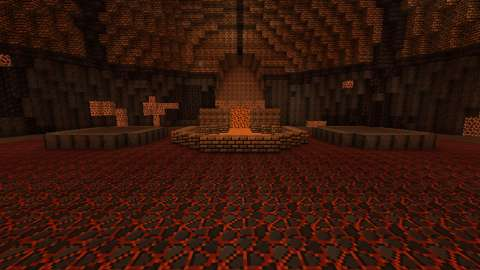
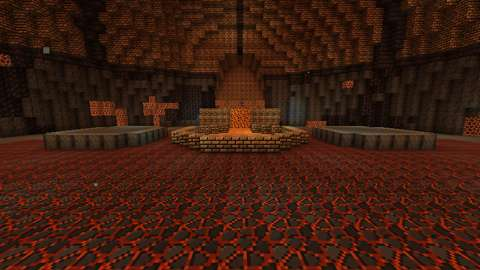
Record the brighter kiln's CI and pictures
CI passed on cd8169f: all 1379 required server game tests, the
optional-integrations-absent run, and the kiln's, the Tyrant's and
Arms VII's client tests. In the game the kiln's client test read block
light 8 or more on all 1,312 cells of the bowl's floor.

The 25 pictures of the two records are replaced with that run's, and
both records' status lines, captions and CI tables now say so.

Claude-Session: https://claude.ai/code/session_0126hvNUCuThWzVv935m75NC

diff --git a/docs/features/cinder-kiln.md b/docs/features/cinder-kiln.md
@@ -1,6 +1,6 @@
 # The Cinder Kiln, and the Kiln Seal
 
-Status: implemented in source; CI passes (below), and its client test's pictures are in the record. Part 1 of boss 4, the Cinder Tyrant, in the [bosses plan](../branches/BOSSES.md#the-cinder-tyrant-the-plan-being-built), built by [the boss playbook](../branches/BOSS_PLAYBOOK.md): the Cinder Kiln, a fourth lair on the shared framework ([hollow-acre.md](hollow-acre.md)), and the summoning that opens it. The Cinder Tyrant and his loot are part 2, in their own pull request ([cinder-tyrant.md](cinder-tyrant.md)). It has not been played by hand, and the two-client dedicated-server playtest is still to do. On 13 October 2026 its bowl was lit brighter, at the owner's choice ([Changes after review](#changes-after-review)); the CI for that is pending.
+Status: implemented in source; CI passes (below), and its client test's pictures are in the record. Part 1 of boss 4, the Cinder Tyrant, in the [bosses plan](../branches/BOSSES.md#the-cinder-tyrant-the-plan-being-built), built by [the boss playbook](../branches/BOSS_PLAYBOOK.md): the Cinder Kiln, a fourth lair on the shared framework ([hollow-acre.md](hollow-acre.md)), and the summoning that opens it. The Cinder Tyrant and his loot are part 2, in their own pull request ([cinder-tyrant.md](cinder-tyrant.md)). It has not been played by hand, and the two-client dedicated-server playtest is still to do. On 13 October 2026 its bowl was lit brighter, at the owner's choice ([Changes after review](#changes-after-review)); CI passes on that too, and the pictures below are from it.
 Proposal issue: none. On 10 October 2026 the owner asked to "do the next boss same way" as the Yeti King; the Cinder Tyrant is the next of the first eight in the bosses brainstorm, and the planning pack's "Kiln Beneath the Mountain" ([chapter 05](../plans/concordance-expansion-2026-10-10/05-new-boss-compendium.md)).
 
 Target milestone and tier: Specialization tier (dungeon expeditions), as the other lairs are. The seal takes what a player has once they reach the Nether: obsidian, blaze powder, gold and a magma block.
@@ -65,6 +65,7 @@ Everything else is the shared framework ([hollow-acre.md](hollow-acre.md#lairs-t
   - The old lattice hung three blocks over the floor, eight apart, at level 11. Flooded as the game floods light, it left the bowl's floor at 0 to 11, two thirds of it at 4 or under.
   - The new one hangs two blocks over the floor at level 15, eight apart, every other row shifted half a spacing along and the rows four apart, so no cell of the floor is more than four blocks walked from a light. Every cell of the bowl's floor now has 8 to 13, three in four of them 10 or more, and most of the ring round the bowl is as bright. It is 95 light blocks where there were 63.
   - The dome's lattice and the single lights are as they were. Nothing else in the kiln changed, and nobody can see, touch or stand on a light block.
+  - In the test's pictures the kiln looks only a little lighter: the slag and the glowing basalt already lit much of what the camera sees. The gain is in the dark corners: in the game, CI read every cell of the bowl's floor at block light 8 or more, where the darkest was 0.
 
 ## Connections
 
@@ -127,14 +128,15 @@ Nothing is renamed.
 ![The arch beside the arrival ledge, filled with Grey Mist](../images/ingame_cinder_kiln_exit.jpg)
 ![A second Kiln Seal pressed into a magma block in the Nether: its vent among the netherrack](../images/ingame_kiln_seal_vent_nether.jpg)
 
-*The client game test's pictures (CI, commit `042b98d`): the vent where the seal was pressed, then in the kiln the view from the ledge, the bowl from the stair's foot, the crucible, the slag over the lip, the west sluice's flooded trough, a shelf, the dome and the Grey Mist's arch; last, the vent a second seal opened in the Nether. The test client renders at 480x270.*
+*The client game test's pictures (CI, commit `cd8169f`, with the brighter light): the vent where the seal was pressed, then in the kiln the view from the ledge, the bowl from the stair's foot, the crucible, the slag over the lip, the west sluice's flooded trough, a shelf, the dome and the Grey Mist's arch; last, the vent a second seal opened in the Nether. The test client renders at 480x270.*
 
-CI (10 October 2026, GitHub Actions, the pins in [PLATFORM.md](../PLATFORM.md)):
+CI (10 and 13 October 2026, GitHub Actions, the pins in [PLATFORM.md](../PLATFORM.md)):
 
 | Commit | What ran | Result |
 | --- | --- | --- |
 | `8a7a4d4` | Build, data audit, game tests, client game tests | **Two failures.** `mod` passed all 1299 required server game tests, the kiln's six among them, and `optional integrations absent` passed. `repository` failed its check on how the client tests are shared out: with the kiln's client test class, the estimate for the busiest of the four client jobs came to 25 minutes 10 seconds, over the 25 it allows. The client test stopped at the seal's press: it judged the press by comparing the item's result with the game's one plain success value, and the result was something else |
-| `042b98d` | The same, the client tests now shared between five jobs ([TESTING.md](../TESTING.md)), and the press judged by whether it took effect (the checks after it still look for the open kiln, the used seal and the vent) | **All pass:** all 1299 required game tests, and every client test class (a workflow change runs them all) in five jobs of 12 to 28 minutes, `CinderKilnClientGameTests` among them. The pictures above are from this commit |
+| `042b98d` | The same, the client tests now shared between five jobs ([TESTING.md](../TESTING.md)), and the press judged by whether it took effect (the checks after it still look for the open kiln, the used seal and the vent) | **All pass:** all 1299 required game tests, and every client test class (a workflow change runs them all) in five jobs of 12 to 28 minutes, `CinderKilnClientGameTests` among them. |
+| `cd8169f` (the brighter light) | Build, data audit, every server game test with and without the optional integrations, and the client test classes the change picks: the kiln's, the Tyrant's and Arms VII's | **All pass:** all 1379 required game tests (main has grown since), `optional integrations absent`, and the three client test classes. In the game the client test read the block light on all 1,312 cells of the bowl's floor: the darkest is 8, as the audit has it. The pictures above are from this commit |
 
 Run locally:
 

diff --git a/docs/features/cinder-tyrant.md b/docs/features/cinder-tyrant.md
@@ -1,6 +1,6 @@
 # The Cinder Tyrant
 
-Status: implemented in source. CI builds it, and its game tests and client game test pass (below). This is part 2 of boss 4 in the [bosses plan](../branches/BOSSES.md#the-cinder-tyrant-the-plan-being-built), built by [the boss playbook](../branches/BOSS_PLAYBOOK.md): the boss of the Cinder Kiln, his Cinderlings and his spat and fallen things, and his loot. It is built on part 1, the kiln and the Kiln Seal that opens it ([cinder-kiln.md](cinder-kiln.md)), and on the lair framework ([hollow-acre.md](hollow-acre.md)). It has not been played by hand, and the two-client dedicated-server playtest is still to do. On 13 October 2026 his seams were widened and brightened, at the owner's choice ([Changes after review](#changes-after-review)); the CI for that is pending.
+Status: implemented in source. CI builds it, and its game tests and client game test pass (below). This is part 2 of boss 4 in the [bosses plan](../branches/BOSSES.md#the-cinder-tyrant-the-plan-being-built), built by [the boss playbook](../branches/BOSS_PLAYBOOK.md): the boss of the Cinder Kiln, his Cinderlings and his spat and fallen things, and his loot. It is built on part 1, the kiln and the Kiln Seal that opens it ([cinder-kiln.md](cinder-kiln.md)), and on the lair framework ([hollow-acre.md](hollow-acre.md)). It has not been played by hand, and the two-client dedicated-server playtest is still to do. On 13 October 2026 his seams were widened and brightened, at the owner's choice ([Changes after review](#changes-after-review)); CI passes on that too, and the pictures below are from it.
 Proposal issue: none. On 10 October 2026 the owner asked for "the next boss same way" as the Yeti King, and for the order he was made in to be saved as the plan for every boss (the playbook); the Cinder Tyrant is the next of the first eight in [branches/BOSSES.md](../branches/BOSSES.md).
 Owner: @jimbozoomer-byte
 
@@ -211,14 +211,15 @@ No Mojang texture is read, traced or copied.
 ![The Molten Heart: seen from above his back, his cores glowing in his seams, fire burning on the floor all round](../images/ingame_cinder_tyrant_molten_heart.jpg)
 ![After his fall: Grey Mist standing in the bowl's middle, the crucible beyond it under the forge mouth](../images/ingame_cinder_tyrant_defeated.jpg)
 
-*The client game test's pictures (CI, commit `cc43a8e`): sunk and waking; the Kiln's Tail Sweep, Ember Spit, Body Slam, Kiln Breath and Mantle Shed; quenched in the south sluice's trough; the Eruption on the forge's lip, the surge and the west sluice choked; the Cinder Rain and the Lava Wave; the Molten Heart; and after his fall. Each attack is frozen mid-move. The test client renders at 480x270, and the kiln is dark: some of these are hard to read at that size.*
+*The client game test's pictures (CI, commit `cd8169f`, with his wider seams and the kiln's brighter light): sunk and waking; the Kiln's Tail Sweep, Ember Spit, Body Slam, Kiln Breath and Mantle Shed; quenched in the south sluice's trough; the Eruption on the forge's lip, the surge and the west sluice choked; the Cinder Rain and the Lava Wave; the Molten Heart; and after his fall. Each attack is frozen mid-move. The test client renders at 480x270. Hot, his seams now show as bright bars across his back and flanks; quenched, they are dark.*
 
-CI (10 October 2026, GitHub Actions, the pins in [PLATFORM.md](../PLATFORM.md)):
+CI (10 and 13 October 2026, GitHub Actions, the pins in [PLATFORM.md](../PLATFORM.md)):
 
 | Commit | What ran | Result |
 | --- | --- | --- |
 | `738fd70` | Build | **The game tests failed to compile:** his heat test set `Entity.invulnerableTime`, which is private in 26.3, to strike him twice in one tick. The main and client code built. Nothing else ran |
-| `cc43a8e` | Build, data audit, every server game test with and without the optional integrations, and every client test class (his arena is a new structure file, which the selection counts as shared) | The test now waits out his hurt cooldown between blows. **All pass:** all 1313 required game tests (his fourteen among them), `optional integrations absent`, and every client test class in five jobs of 15 to 28 minutes, `CinderTyrantClientGameTests` (his whole fight) among them. The pictures above are from this commit |
+| `cc43a8e` | Build, data audit, every server game test with and without the optional integrations, and every client test class (his arena is a new structure file, which the selection counts as shared) | The test now waits out his hurt cooldown between blows. **All pass:** all 1313 required game tests (his fourteen among them), `optional integrations absent`, and every client test class in five jobs of 15 to 28 minutes, `CinderTyrantClientGameTests` (his whole fight) among them |
+| `cd8169f` (his wider seams, the kiln's brighter light) | Build, data audit, every server game test with and without the optional integrations, and the client test classes the change picks: the kiln's, his and Arms VII's | **All pass:** all 1379 required game tests (main has grown since), his fourteen among them, `optional integrations absent`, and the three client test classes, his whole fight among them. The pictures above are from this commit |
 
 Run locally (10 October 2026):
 
